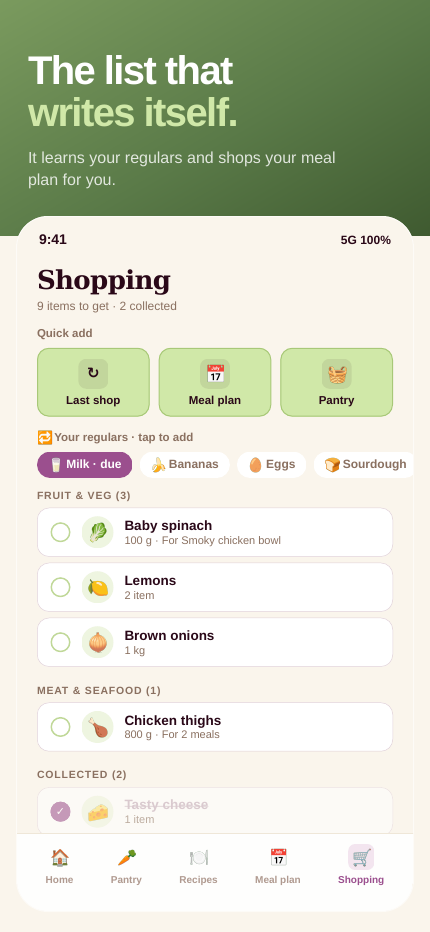
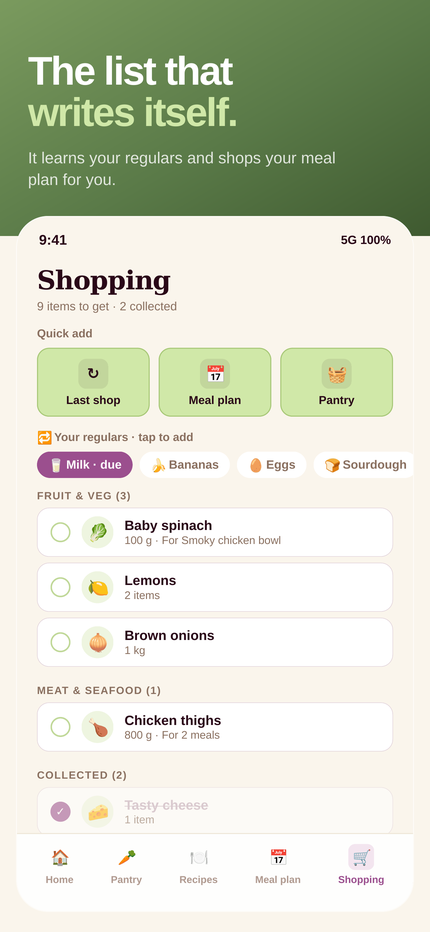
Add Google Search Console verification

diff --git a/screenshots_v2.html b/screenshots_v2.html
@@ -504,6 +504,15 @@
     position: absolute; left: 22px; right: 22px; bottom: 82px;
     text-align: center; font-size: 10.5px; color: var(--muted);
   }
+
+  /* Render fixes (WeasyPrint fades gradients inside rounded panes) */
+  .h-band { background: #9B4F8E; }
+  .m-head .gen { background: #D95F2B; }
+  .m-head h2 { white-space: nowrap; }
+  .h-cook .thumb { top: 0; left: 0; right: 0; bottom: 0; background: #C17742; }
+  .h-cook .thumb2 { position: absolute; top: 0; right: 0; width: 55%; bottom: 0; background: #A65F32; border-radius: 0 0 0 120px; }
+  .h-cook .ovl { background: rgba(42,8,24,.38); }
+  .m-slot .lbl { width: 64px; }
 </style>
 </head>
 <body>
@@ -564,7 +573,7 @@
       <div class="ttl">Cook tonight</div>
     </div>
     <div class="h-cook">
-      <div class="thumb"></div>
+      <div class="thumb"></div><div class="thumb2"></div>
       <div class="match">94% MATCH</div>
       <div class="ovl">
         <div class="tl">Smoky chicken &amp; chickpea bowl</div>
@@ -632,17 +641,17 @@
       <div class="p-item">
         <span class="emoji">🧀</span>
         <div class="info"><div class="nm">Tasty cheese</div><div class="sub">Fridge  ·  250 g</div></div>
-        <div class="date"><div class="d">3 weeks</div><div class="dd">12 May</div></div>
+        <div class="date"><div class="d">3 weeks</div><div class="dd">31 Oct</div></div>
       </div>
       <div class="p-item">
         <span class="emoji">🍅</span>
         <div class="info"><div class="nm">Roma tomatoes</div><div class="sub">Produce  ·  6 items</div></div>
-        <div class="date"><div class="d">5 days</div><div class="dd">26 Apr</div></div>
+        <div class="date"><div class="d">5 days</div><div class="dd">15 Oct</div></div>
       </div>
       <div class="p-item">
         <span class="emoji">🧄</span>
         <div class="info"><div class="nm">Garlic bulbs</div><div class="sub">Pantry  ·  3 items</div></div>
-        <div class="date"><div class="d">6 weeks</div><div class="dd">2 Jun</div></div>
+        <div class="date"><div class="d">6 weeks</div><div class="dd">21 Nov</div></div>
       </div>
     </div>
 
@@ -682,8 +691,8 @@
     </div>
 
     <div class="r-filters">
-      <span class="chip chip--active">Ideas</span>
-      <span class="chip">Real</span>
+      <span class="chip">Ideas</span>
+      <span class="chip chip--active">Real</span>
       <span class="chip">Saved</span>
     </div>
 
@@ -744,7 +753,7 @@
     <div class="m-head">
       <div>
         <h2>This week</h2>
-        <div class="sub">29 June – 5 July</div>
+        <div class="sub">5 – 11 October</div>
       </div>
       <div class="gen"><span class="emoji">⚡</span> Generate week</div>
     </div>
@@ -756,26 +765,26 @@
 
     <div class="m-days">
       <div class="m-day today">
-        <div class="dayh"><span class="dn">Mon  ·  Today</span><span class="dd">29 Jun</span></div>
+        <div class="dayh"><span class="dn">Mon  ·  Today</span><span class="dd">5 Oct</span></div>
         <div class="slots">
           <div class="m-slot"><span class="lbl">Breakfast</span><span class="tl">Greek yoghurt &amp; berries</span></div>
-          <div class="m-slot"><span class="lbl">Dinner</span><span class="tl">Smoky chicken &amp; chickpea bowl</span><span class="tag">USES EXPIRING</span></div>
+          <div class="m-slot"><span class="lbl">Dinner</span><span class="tl">Chickpea bowl</span><span class="tag">USES EXPIRING</span></div>
         </div>
       </div>
       <div class="m-day">
-        <div class="dayh"><span class="dn">Tue</span><span class="dd">30 Jun</span></div>
+        <div class="dayh"><span class="dn">Tue</span><span class="dd">6 Oct</span></div>
         <div class="slots">
           <div class="m-slot"><span class="lbl">Dinner</span><span class="tl">Green pesto pasta &amp; peas</span></div>
         </div>
       </div>
       <div class="m-day">
-        <div class="dayh"><span class="dn">Wed</span><span class="dd">1 Jul</span></div>
+        <div class="dayh"><span class="dn">Wed</span><span class="dd">7 Oct</span></div>
         <div class="slots">
           <div class="m-slot"><span class="lbl">Dinner</span><span class="tl">Miso-glazed roast pumpkin</span></div>
         </div>
       </div>
       <div class="m-day">
-        <div class="dayh"><span class="dn">Thu</span><span class="dd">2 Jul</span></div>
+        <div class="dayh"><span class="dn">Thu</span><span class="dd">8 Oct</span></div>
         <div class="slots">
           <div class="m-slot"><span class="lbl">Lunch</span><span class="tl">Sourdough with poached eggs</span></div>
           <div class="m-slot m-slot--empty"><span class="lbl">Dinner</span><span class="tl">Tap to plan…</span></div>
@@ -860,7 +869,7 @@
     </div>
     <div class="aisle">FRUIT &amp; VEG (3)</div>
     <div class="si"><div class="cb"></div><div class="ec">🥬</div><div><div class="nm">Baby spinach</div><div class="q">100 g  ·  For Smoky chicken bowl</div></div></div>
-    <div class="si"><div class="cb"></div><div class="ec">🍋</div><div><div class="nm">Lemons</div><div class="q">2 item</div></div></div>
+    <div class="si"><div class="cb"></div><div class="ec">🍋</div><div><div class="nm">Lemons</div><div class="q">2 items</div></div></div>
     <div class="si"><div class="cb"></div><div class="ec">🧅</div><div><div class="nm">Brown onions</div><div class="q">1 kg</div></div></div>
     <div class="aisle">MEAT &amp; SEAFOOD (1)</div>
     <div class="si"><div class="cb"></div><div class="ec">🍗</div><div><div class="nm">Chicken thighs</div><div class="q">800 g  ·  For 2 meals</div></div></div>

diff --git a/googleae4b842e4748b106.html b/googleae4b842e4748b106.html
@@ -1,0 +1,1 @@
+google-site-verification: googleae4b842e4748b106.html
